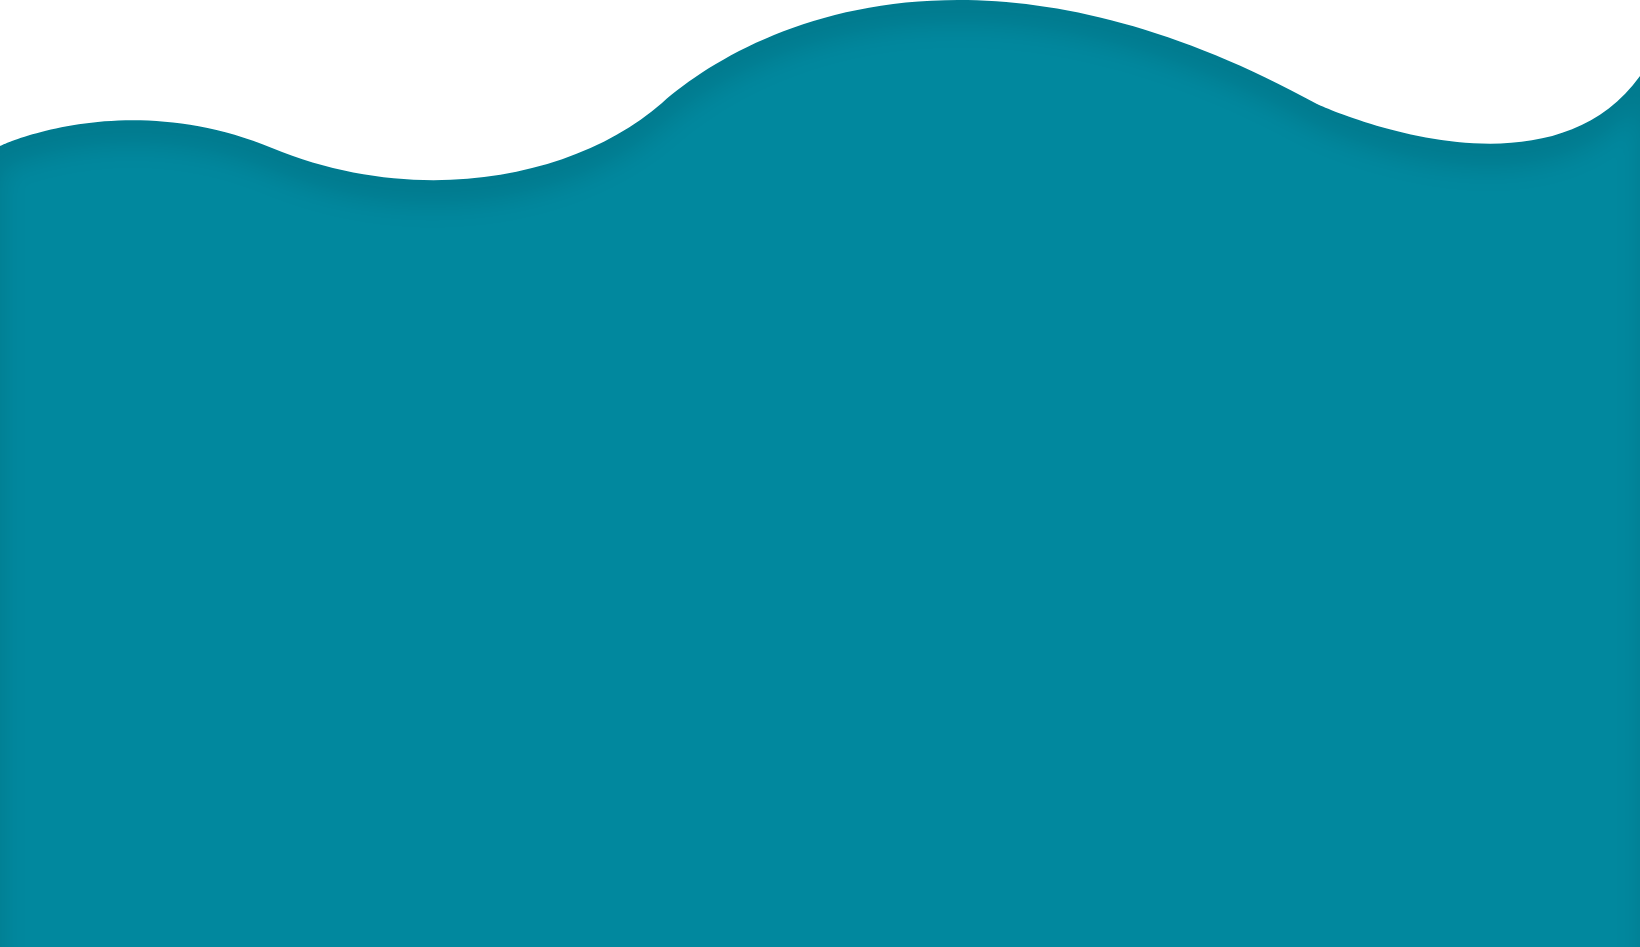
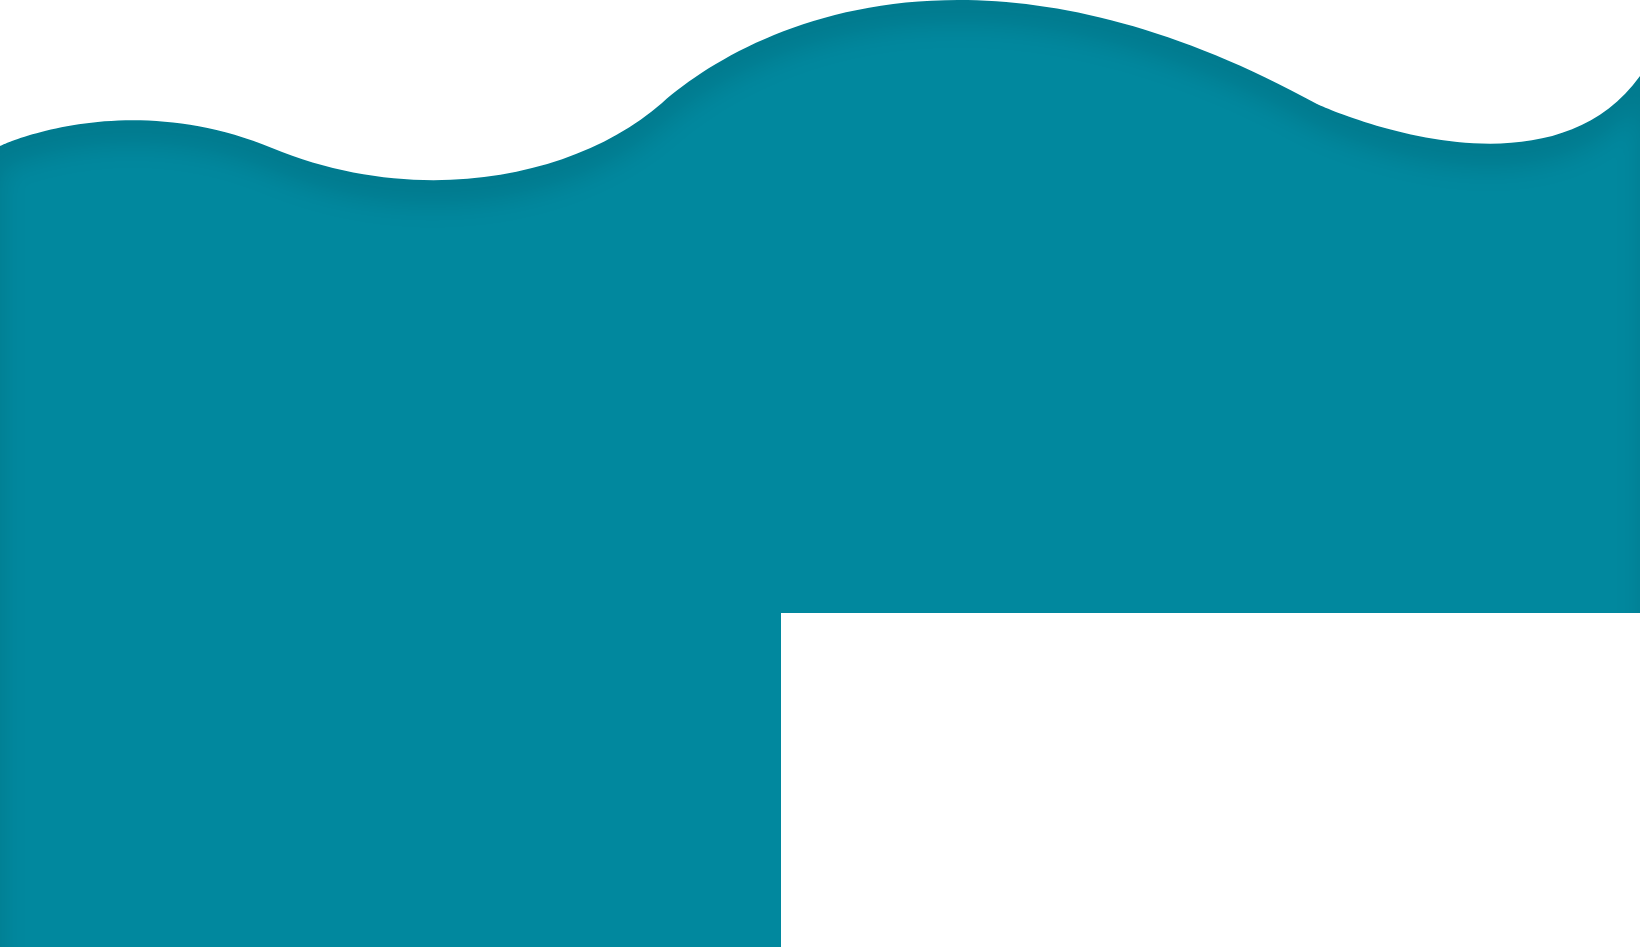
Added last blocks

Changed region(s): [[0.4665, 0.6431, 1.0, 1.0]]

diff --git a/main.css b/main.css
@@ -10,6 +10,21 @@ body {
     border: none
 }
 
+button {
+    width: 200px;
+    height: 50px;
+    box-shadow: 0 10px 30px rgba(20, 108, 113, 0.15), inset 0 0 2px rgba(255, 255, 255, 0.3);
+    border-radius: 25px;
+    background-color: #00ecf4;
+    color: #ffffff;
+    font-size: 14px;
+    font-weight: 700;
+    line-height: 45px;
+    border: none;
+    text-transform: uppercase;
+    cursor: pointer;
+}
+
 #section1 {
     background-image: url(images/Ellipse_1_copy_4.png), url(images/Ellipse_1_copy_4.png), url(images/Ellipse_1_copy_4.png), url(images/Ellipse_1_copy_5.png), url(images/Ellipse_1_copy_5.png), url("images/nike.png"), url("images/b.png"), url("images/Nike_Text.png"), radial-gradient(circle 1200px at center, #03cddb 0%, #005773);
     background-position: 968px 204px, 639px 638px, 278px 164px, 278px 704px, 1233px 44px, 117px 90px, right center, center, center;
@@ -25,8 +40,8 @@ body {
 
 #section1 img {
     padding-top: 244px;
-    width: 506px;
-    height: 418px;
+    max-width: 506px;
+    max-height: 418px;
     padding-right: 200px;
 }
 
@@ -36,8 +51,8 @@ body {
 }
 
 .section1_text h1 {
-    width: 400px;
-    height: 131px;
+    max-width: 400px;
+    max-height: 131px;
     color: #00fffc;
     font-size: 40px;
     font-weight: 700;
@@ -82,7 +97,8 @@ body {
     box-shadow: none;
     border-image: none;
     position: relative;
-    padding-bottom: 275px
+    padding-bottom: 275px;
+    z-index: 5
 }
 
 #section2 div {
@@ -99,8 +115,8 @@ img#shoe2 {
 
 #section2 h2 {
     position: absolute;
-    width: 220px;
-    height: 16px;
+    max-width: 220px;
+    max-height: 16px;
     color: #00dfee;
     font-size: 20px;
     font-weight: 500;
@@ -108,17 +124,6 @@ img#shoe2 {
 }
 
 #section2 button {
-    width: 200px;
-    height: 50px;
-    box-shadow: 0 10px 30px rgba(20, 108, 113, 0.15), inset 0 0 2px rgba(255, 255, 255, 0.3);
-    border-radius: 25px;
-    background-color: #00ecf4;
-    color: #ffffff;
-    font-size: 14px;
-    font-weight: 700;
-    line-height: 45px;
-    text-transform: uppercase;
-    cursor: pointer;
     align-self: flex-end;
     margin-bottom: 100px
 }
@@ -143,22 +148,178 @@ img#shoe2 {
 }
 
 .layer_1 {
-    width: 305px;
-    height: 157px;
+    max-width: 305px;
+    max-height: 157px;
     top: 378px;
     left: 898px;
 }
 
 .layer_2 {
-    width: 305px;
-    height: 157px;
+    max-width: 305px;
+    max-height: 157px;
     top: 692px;
     left: 1039px;
 }
 
 .layer_3 {
-    width: 327px;
-    height: 118px;
+    max-max-width: 327px;
+    max-height: 118px;
     top: 542px;
     left: 321px;
+}
+
+#section3 {
+    padding-top: 900px;
+    margin-top: -600px;
+    background-origin: content-box;
+    max-width: 100%;
+    height: 906px;
+    background-image: url(images/Group_7.png), url(images/Rectangle_7_copy_2.png);
+    background-position: 500px -800px, left -600px;
+    background-repeat: no-repeat, no-repeat;
+    position: relative;
+    z-index: 3;
+    display: flex;
+    justify-content: space-between;
+    align-content: flex-start;
+}
+
+#Layer_6 {
+    margin-top: -200px;
+    padding-left: 111px;
+    max-width: 812px;
+    max-height: 291px;
+}
+
+#section3 div {
+    margin-top: -300px;
+    text-align: center;
+    padding-right: 30px;
+}
+
+#section3 h1 {
+    max-width: 600px;
+    height: 58px;
+    color: #263238;
+    font-size: 40px;
+    font-weight: 700;
+    line-height: 90px;
+}
+
+#section3 p {
+    max-width: 550px;
+    max-height: 81px;
+    color: #263238;
+    font-size: 18px;
+    font-weight: 300;
+    line-height: 31px;
+}
+
+#section3 button {
+    margin-top: 40px;
+}
+
+#section4 {
+    z-index: 5;
+    margin-top: -800px;
+    padding-top: 230px;
+    background-origin: content-box;
+    width: 100%;
+    height: 700px;
+    background-image: url(images/Shape_2.png);
+    background-position: center;
+    background-repeat: no-repeat;
+    position: relative;
+    z-index: 3;
+}
+
+#section4 img {
+    position: relative;
+    left: 471px;
+    top: 82px;
+    width: 659px;
+    height: 267px;
+}
+
+#section4 div {
+    position: relative;
+    left: 118px;
+    top: 20%;
+    display: flex;
+    flex-direction: column;
+    justify-content: center;
+    align-items: flex-start;
+    text-align: center;
+}
+
+#section4 div h1 {
+    margin-bottom: 0px
+}
+
+#section4 div p {
+    margin-bottom: 0px;
+    width: 338px;
+    height: 16px;
+
+    color: #263238;
+    font-size: 15px;
+    font-weight: 300;
+    line-height: 31px;
+    text-transform: uppercase;
+}
+
+#section4 div h2 {
+    margin-bottom: 0px;
+    width: 78px;
+    height: 33px;
+    color: #f50057;
+    font-size: 35px;
+    font-weight: 700;
+    line-height: 90px;
+}
+
+#section4 div button {
+    margin-left: 150px;
+    margin-top: -20px;
+}
+
+img#Group_6 {
+    width: 799px;
+    height: 126px;
+    position: relative;
+    left: -260px;
+    top: 20px
+}
+
+footer {
+    width: 100%;
+    height: 195px;
+    background-color: #212e30;
+    display: flex;
+    justify-content: space-around;
+    align-content: center;
+    align-items: center;
+}
+
+footer img {
+    width: 80px;
+    height: 28px;
+    color: #ffffff;
+    font-size: 80px;
+    font-weight: 400;
+    line-height: 45px;
+}
+
+footer li {
+    list-style-type: none;
+    text-decoration: none;
+    color: #437077;
+    font-size: 14px;
+    font-weight: 400;
+    line-height: 30px;
+}
+
+footer a {
+    color: #437077;
+    text-decoration: none;
 }

diff --git a/index.html b/index.html
@@ -1,4 +1,5 @@
 <html>
+
 <head>
     <link rel="stylesheet" href="main.css" type="text/css">
     <title>Shoe Landing</title>
@@ -26,8 +27,8 @@
         </div>
     </section>
     <section id="section3">
+        <img src="images/Layer_6.png" id="Layer_6" alt="shoe">
         <div>
-            <img src="images/Layer_6.png" alt="shoe">
             <h1>The Way You Like It</h1>
             <p>Lorem ipsum dolor sit amet, consectetur adipisicing elit, sed do eiusmod tempor incididunt ut labore et dolore magna aliqua. Ut enim ad minim veniam, quis nostrud exercitation </p>
             <button>buy now</button>
@@ -35,6 +36,7 @@
     </section>
     <section id="section4">
         <img src="images/Group_1.png" alt="shoe">
+        <img src="images/Group_6.png" id="Group_6" alt="shoe">
         <div>
             <h1>NIKE HYPERVENOM PHELON 3 FG</h1>
             <p>MEN'S FIRM-GROUND SOCCER CLEAT</p>
@@ -42,6 +44,33 @@
             <button>buy now</button>
         </div>
     </section>
+    <footer>
+        <img src="images/nike.png" alt="">
+        <div class="block1">
+            <ul>
+                <li><a href="#">Help Center</a></li>
+                <li><a href="#">Get Started</a></li>
+                <li><a href="#">Contact US</a> </li>
+                <li><a href="#">Contact US</a> </li>
+            </ul>
+        </div>
+        <div class="block3">
+            <ul>
+                <li><a href="#">About Us</a></li>
+                <li><a href="#">Terms of Use</a></li>
+                <li><a href="#">Privacy Policy</a> </li>
+                <li><a href="#">Contact US</a> </li>
+            </ul>
+        </div>
+        <div class="block3">
+            <ul>
+                <li><a href="#">About Us</a></li>
+                <li><a href="#">Terms of Use</a></li>
+                <li><a href="#">Privacy Policy</a> </li>
+                <li><a href="#">Contact US</a> </li>
+            </ul>
+        </div>
+    </footer>
 </body>
 
 </html>
